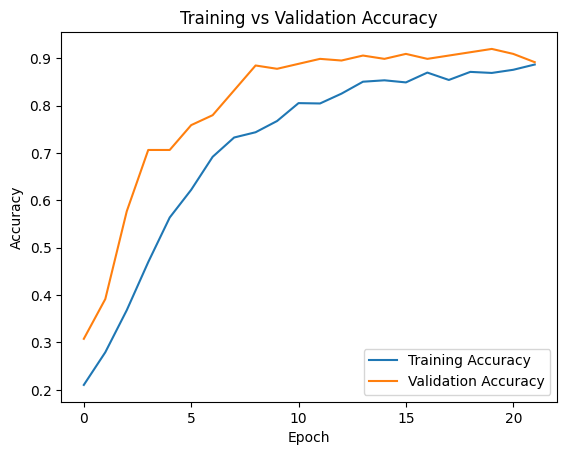
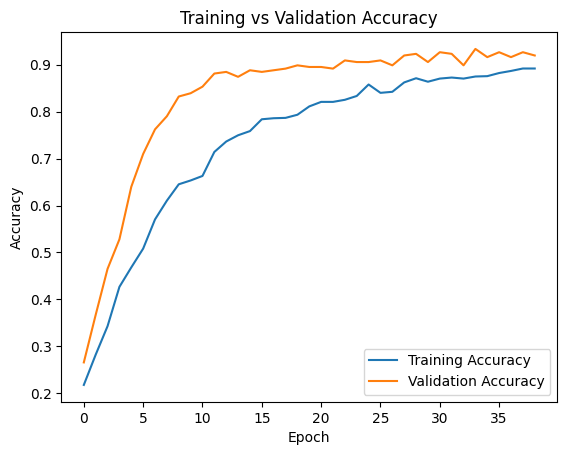
new model graphs and README.md

diff --git a/Weather_Classification/README.md b/Weather_Classification/README.md
@@ -54,14 +54,23 @@ for layer in base_model.layers[:fine_tune_at]:
 x = base_model.output
 x = GlobalAveragePooling2D()(x)
 
-x = Dense(256, activation='relu')(x)
-x = Dropout(0.2)(x)
-x = Dense(128, activation='relu')(x)
-x = Dropout(0.2)(x)
-x = Dense(64, activation='relu')(x)
-x = Dropout(0.2)(x)
+x = Dense(256)(x)
+x = BatchNormalization()(x)
+x = Activation('relu')(x)
+x = Dropout(0.3)(x)
 
-outputs = Dense(6, activation='softmax')(x)
+x = Dense(128)(x)
+x = BatchNormalization()(x)
+x = Activation('relu')(x)
+x = Dropout(0.3)(x)
+
+x = Dense(64)(x)
+x = BatchNormalization()(x)
+x = Activation('relu')(x)
+x = Dropout(0.3)(x)
+
+outputs = Dense(6)(x)
+outputs = Activation('softmax')(outputs)
 
 model = Model(inputs=inputs, outputs=outputs)
 ```
@@ -153,18 +162,20 @@ model = Model(inputs=inputs, outputs=outputs)
 #### Örnek Eğitim Çıktıları 
 
 ```
-Epoch 5: val_loss improved from 0.95861 to 0.82352, saving model to /content/drive/MyDrive/weather_classification/best_model.keras
-43/43 ━━━━━━━━━━━━━━━━━━━━ 9s 207ms/step - accuracy: 0.5269 - loss: 1.2423 - val_accuracy: 0.7063 - val_loss: 0.8235
+Epoch 5/50
+43/43 ━━━━━━━━━━━━━━━━━━━━ 0s 159ms/step - accuracy: 0.4549 - loss: 1.3796
+Epoch 5: val_loss improved from 1.24472 to 1.02865, saving model to /content/drive/MyDrive/weather_classification/best_model.keras
+43/43 ━━━━━━━━━━━━━━━━━━━━ 10s 226ms/step - accuracy: 0.4552 - loss: 1.3789 - val_accuracy: 0.6399 - val_loss: 1.0286
 Epoch 6/50
-43/43 ━━━━━━━━━━━━━━━━━━━━ 0s 165ms/step - accuracy: 0.6056 - loss: 1.0779
-Epoch 6: val_loss improved from 0.82352 to 0.67996, saving model to /content/drive/MyDrive/weather_classification/best_model.keras
-43/43 ━━━━━━━━━━━━━━━━━━━━ 10s 232ms/step - accuracy: 0.6059 - loss: 1.0769 - val_accuracy: 0.7587 - val_loss: 0.6800
+43/43 ━━━━━━━━━━━━━━━━━━━━ 0s 162ms/step - accuracy: 0.4960 - loss: 1.3274
+Epoch 6: val_loss improved from 1.02865 to 0.93046, saving model to /content/drive/MyDrive/weather_classification/best_model.keras
+43/43 ━━━━━━━━━━━━━━━━━━━━ 9s 206ms/step - accuracy: 0.4963 - loss: 1.3266 - val_accuracy: 0.7098 - val_loss: 0.9305
 Epoch 7/50
 ...
-Epoch 22/50
-43/43 ━━━━━━━━━━━━━━━━━━━━ 0s 163ms/step - accuracy: 0.8894 - loss: 0.3148
-Epoch 22: val_loss did not improve from 0.28743
-43/43 ━━━━━━━━━━━━━━━━━━━━ 8s 194ms/step - accuracy: 0.8893 - loss: 0.3154 - val_accuracy: 0.8916 - val_loss: 0.3452
+Epoch 39/50
+43/43 ━━━━━━━━━━━━━━━━━━━━ 0s 166ms/step - accuracy: 0.8950 - loss: 0.4088
+Epoch 39: val_loss did not improve from 0.27755
+43/43 ━━━━━━━━━━━━━━━━━━━━ 8s 196ms/step - accuracy: 0.8950 - loss: 0.4095 - val_accuracy: 0.9196 - val_loss: 0.2781
 ```
 
 ## Veri Artırma (Data Augmentation)
